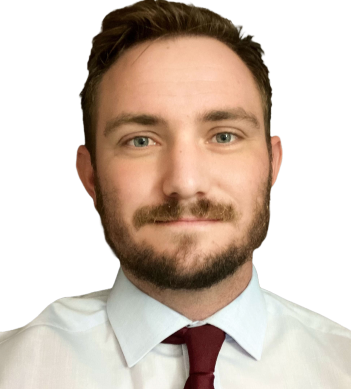
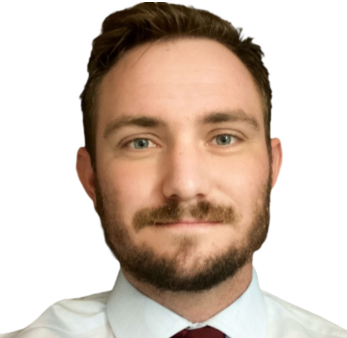
update: header
updated hero, header is complete, need to fix link cards next then site is done, for now

diff --git a/assets/css/style.css b/assets/css/style.css
@@ -35,7 +35,7 @@ body{
     --secondary: rgb(30, 32, 31);
     --accent: rgb(39, 209, 113);
 }
-/*--------- GLOBAL ----------*/
+
 .wrapper {
     display: flex;
     align-items: center;
@@ -52,6 +52,8 @@ header {
 }
 
 #headerCont {
+    display: flex;
+    flex-direction: row;
     height: 98%;
     width: 100%;
 }
@@ -60,8 +62,6 @@ header {
     height: 100%;
     width: 50%;
 }
-
-
 
 .headerL {
     display: flex;
@@ -111,6 +111,16 @@ header {
 
 .linkIcon>img {
     width: 5vw;
+}
+
+#headerR{
+    display: flex;
+    justify-content: center;
+}
+
+#heroWrap {
+    display: flex;justify-content: center;
+    width: 25vw;
 }
 
 #lightbar {

diff --git a/index.html b/index.html
@@ -35,8 +35,10 @@
                     </div>
                 </div>
             </div>
-            <div class="headerSide">
-                rdg
+            <div id="headerR" class="headerSide">
+                <div id="heroWrap">
+                    <img src="./assets/css/images/hero.png" alt="">
+                </div>
             </div>
         </div>
         <div id="lightbar" class="wrapper">

diff --git a/assets/css/resume.css b/assets/css/resume.css
@@ -47,6 +47,7 @@ main {
 
 #resume {
     width: 50vw;
+    min-width: 1000px;
     height: 95%;
     border-radius: 0.25rem;
     box-shadow: 10px 10px rgba(255, 255, 255, 0.13);
